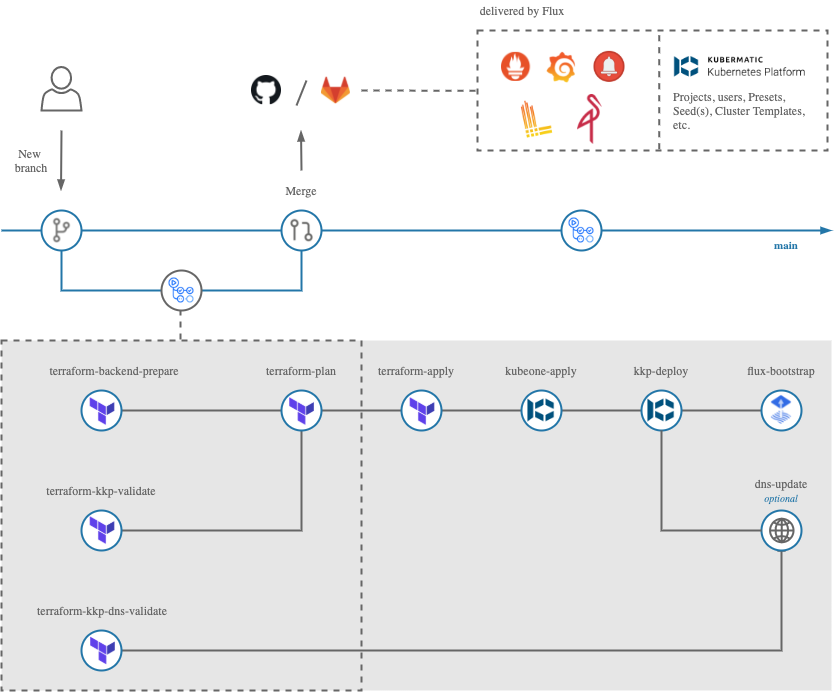
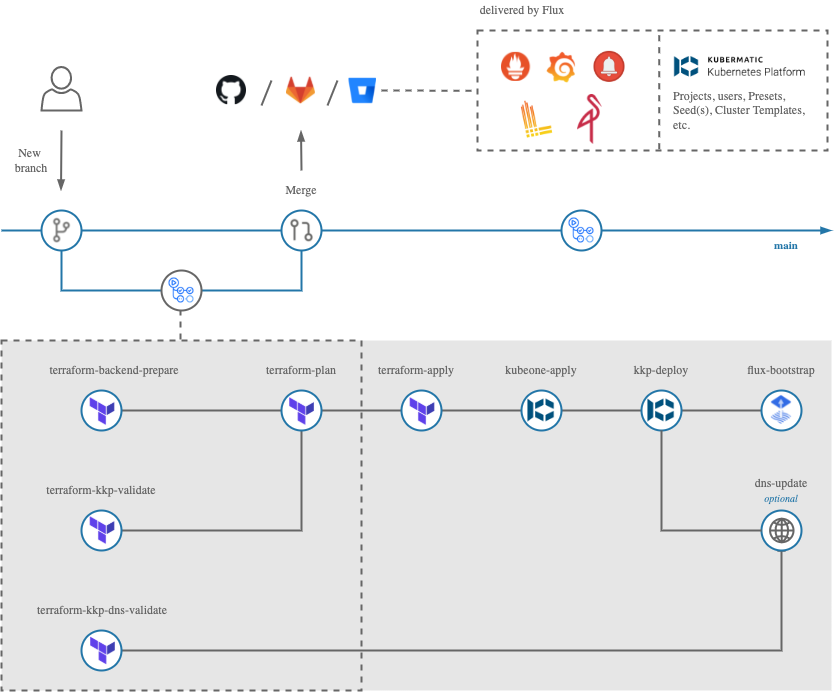
start.kubermatic bitbucket doc updates for v2.20

diff --git a/content/kubermatic/v2.20/installation/start_kkp/guides/setup_repository/_index.en.md b/content/kubermatic/v2.20/installation/start_kkp/guides/setup_repository/_index.en.md
@@ -26,6 +26,11 @@ Create new repository on GitLab [manually](https://docs.gitlab.com/ee/user/proje
 
 Also prepare a [GitLab API token](https://docs.gitlab.com/ee/user/profile/personal_access_tokens.html) which will be used for GitOps setup. [Project access token](https://docs.gitlab.com/ee/user/project/settings/project_access_tokens.html) can be used as well.
 {{% /tab %}}
+{{% tab name="Bitbucket" %}}
+Create new repository on Bitbucket [manually](https://support.atlassian.com/bitbucket-cloud/docs/create-a-git-repository/).
+
+The generated SSH Key on the next step will be added to your [SSH Keys](https://bitbucket.org/account/settings/ssh-keys/) for GitOps setup.
+{{% /tab %}}
 {{% /tabs %}}
 
 
@@ -58,6 +63,7 @@ Use `gcloud` CLI tool to create these credentials.
 ```bash
 export GCLOUD_PROJECT="{{ .Configuration.KubernetesSpec.CloudProvider.GCE.Project }}"
 export SERVICE_ACCOUNT_NAME="k1-cluster-provisioner"
+gcloud config set project $GCLOUD_PROJECT
 # create new service account
 gcloud iam service-accounts create "${SERVICE_ACCOUNT_NAME}"
 # get your service account id
@@ -130,6 +136,17 @@ Go to your GitLab project under "Settings" -> "CI/CD" -> "Variables" and setup f
 | `SSH_PRIVATE_KEY`       | The private SSH key (content of `~/.ssh/k8s_rsa`) from above step    |
 | `SSH_PUBLIC_KEY`        | The public SSH key (content of `~/.ssh/k8s_rsa.pub`) from above step |
 {{% /tab %}}
+{{% tab name="Bitbucket" %}}
+Go to your Bitbucket project under "Repository Settings" -> "PIPELINES" -> "Settings" and click on "Enable Pipelines".
+
+Then navigate to "Repository Settings" -> "PIPELINES" -> "Repository Variables" and setup following variables (Make sure that "Secured" is always set):
+
+| Secret Name             | Description                                                                       |
+| ------------------------|-----------------------------------------------------------------------------------|
+| `SOPS_AGE_SECRET_KEY`   | The generated AGE secret key (see _secrets.md_ file)                              |
+| `SSH_PRIVATE_KEY`       | Base64 encoded value of private SSH key (`base64 -w0 k8s_rsa`) from above step    |
+| `SSH_PUBLIC_KEY`        | Base64 encoded value of public SSH key (`base64 -w0 k8s_rsa.pub`) from above step |
+{{% /tab %}}
 {{% /tabs %}}
 
 In addition to above, configure following secrets for selected cloud provider.
@@ -150,9 +167,15 @@ In addition to above, configure following secrets for selected cloud provider.
 | `ARM_CLIENT_SECRET`     | The Azure Client Secret for client authentication                    |
 {{% /tab %}}
 {{% tab name="GCP" %}}
+For **GitHub** and **GitLab**:
 | Secret Name             | Description                                                                                |
 | ------------------------| -------------------------------------------------------------------------------------------|
 | `GOOGLE_CREDENTIALS`    | The service account key (content of `${SERVICE_ACCOUNT_NAME}-sa-key.json`) from above step |
+
+For **Bitbucket**:
+| Secret Name             | Description                                                                                |
+| ------------------------| -------------------------------------------------------------------------------------------|
+| `GCLOUD_SERVICE_KEY`    | The Base64 encoded service account key (`base64 -w0 ${SERVICE_ACCOUNT_NAME}-sa-key.json`). |
 {{% /tab %}}
 {{% tab name="OpenStack" %}}
 | Secret Name             | Description                                                          |
@@ -189,7 +212,7 @@ git push -u origin main
 
 ## Enjoy automated pipeline delivery
 
-At this point, GitHub Workflow or GitLab's CI/CD pipeline should be triggered, and you can watch it on your repository.
+At this point, GitHub Workflow, GitLab's CI/CD pipeline or Bitbucket Pipeline should be triggered, and you can watch it on your repository.
 After all steps are complete, it may still take a few minutes to reconcile the required state (as the Flux is delivering additional steps independently).
 
 ![GitHub Workflow](pipeline.png?width=700px&classes=shadow,border "GitHub Workflow")

diff --git a/content/kubermatic/v2.20/installation/start_kkp/concepts/pipeline_definition/_index.en.md b/content/kubermatic/v2.20/installation/start_kkp/concepts/pipeline_definition/_index.en.md
@@ -2,7 +2,7 @@
 title = "Delivery Pipeline description"
 +++
 
-Automated pipeline was created in GitHub or GitLab to automate all installation steps to have KKP up and running and
+Automated pipeline was created in GitHub, GitLab or Bitbucket to automate all installation steps to have KKP up and running and
 ready to operate with GitOps (using Flux tool).
 
 ![Pipeline Schema](pipeline.png?width=700px&classes=shadow,border "Pipeline Schema")
@@ -11,7 +11,7 @@ Jobs are being triggered on 2 specific events - either on your _Pull (Merge) Req
 
 On pull requests, only the jobs for terraform validate and plan are executed (so that you have visibility what is going to change).
 
-All other jobs are being executed on the _main_ branch after push (in case that any files in directories _kubeone_, _kubermatic_, _terraform_ or _.github_ (_.gitlab-ci.yaml_) have changed).
+All other jobs are being executed on the _main_ branch after push (in case that any files in directories _kubeone_, _kubermatic_, _terraform_ or _.github_ (_.gitlab-ci.yml_ / _bitbucket-pipelines.yml_) have changed).
 
 ## Jobs
 
@@ -22,7 +22,7 @@ Runs validation of Terraform module(s).
 Prepares Terraform backend for storing Terraform state.
 
 {{% notice info %}}
-This is performed only with GitHub and AWS / Azure / GCP. If you are using GitLab, terraform state is stored in GitLab directly.
+This is performed only with [ GitHub / Bitbucket ] and [ AWS / GCP ]. If you are using GitLab, terraform state is stored in GitLab directly.
 {{% /notice %}}
 
 ### terraform-plan
@@ -61,7 +61,7 @@ Optional step for AWS only.
 Runs only after the push in `main` branch.
 
 ### flux-bootstrap
-Initiates Flux v2 using `flux bootstrap github` (or `flux bootstrap gitlab`) command.
+Initiates Flux v2 using `flux bootstrap github` (or `flux bootstrap gitlab` / `flux bootstrap git`) command.
 
 ==> KKP resources (Seed, Preset, Project) and optionally components of Monitoring/Logging/Alerting stack are delivered after Flux is initiated on the cluster,
 Flux itself is also managed by the same repository.

diff --git a/content/kubermatic/v2.20/installation/start_kkp/guides/explore_content/_index.en.md b/content/kubermatic/v2.20/installation/start_kkp/guides/explore_content/_index.en.md
@@ -11,12 +11,14 @@ Let’s unzip it and take a look at the structure.
 ```text
 .
 ├── .gitignore
-├── .github                  # if GitHub was used as Git provider
+├── .github                     # if GitHub was used as Git provider
 │   └── workflows
 │       └── kkp.yaml
-├── .gitlab-ci.yml           # if GitLab was used as Git provider
-├── README-local-github.md   # if GitHub was used as Git provider
-├── README-local-gitlab.md   # if GitLab was used as Git provider
+├── .gitlab-ci.yml              # if GitLab was used as Git provider
+├── bitbucket-pipelines.yml     # if Bitbucket was used as Git provider
+├── README-local-github.md      # if GitHub was used as Git provider
+├── README-local-gitlab.md      # if GitLab was used as Git provider
+├── README-local-bitbucket.md   # if Bitbucket was used as Git provider
 ├── README.md
 ├── flux
 │   └── clusters
@@ -76,6 +78,7 @@ There are following directories and files:
 
 * _.github/workflows_ - includes CI/CD jobs for automatic provisioning of cluster and KKP installation (if GitHub was selected as the Git provider).
 * _.gitlab-ci.yml_ - includes CI/CD jobs for automatic provisioning of cluster and KKP installation (if GitLab was selected as the Git provider).
+* _bitbucket-pipelines.yml_ - includes CI/CD jobs for automatic provisioning of cluster and KKP installation (if Bitbucket was selected as the Git provider).
 * _flux_ - includes Kubernetes resources organized by namespaces which are delivered to your Kubernetes cluster by the Flux GitOps tool.
   There are 2 subdirectories _master_ and _master-sops_. First one includes plain Kubernetes resources and second one
   the Kubernetes resources with some encrypted values (they are treated in special way using decryption provider with Flux).

diff --git a/content/kubermatic/v2.20/installation/start_kkp/concepts/_index.en.md b/content/kubermatic/v2.20/installation/start_kkp/concepts/_index.en.md
@@ -24,7 +24,7 @@ Currently, following providers are supported to try KKP:
 
 Required configuration in wizard is different for each of these providers.
 
-### GitHub or GitLab repository
+### GitHub, GitLab or Bitbucket repository
 It will be used for storing the declarative setup of all components,
 can be either public or private, managed by user or organization.
 
@@ -39,6 +39,7 @@ If you have Route53 and willing to try KKP on AWS - records preparation can be f
 
 * **[GitHub Actions / Workflow](https://github.com/features/actions)** - for management of complete delivery pipeline on top of your GitHub repository
 * **[GitLab CI/CD](https://docs.gitlab.com/ee/ci/)** - for management of complete delivery pipeline on top of your GitLab repository
+* **[Bitbucket Pipelines](https://support.atlassian.com/bitbucket-cloud/docs/get-started-with-bitbucket-pipelines/)** - for management of complete delivery pipeline on top of your Bitbucket Cloud repository
 * **[Terraform](https://www.terraform.io/)** - for provisioning of cloud resources for Kubernetes master / seed cluster (the cluster that will run Kubermatic Kubernetes Platform components)
 * **[KubeOne](https://www.kubermatic.com/products/kubeone/)** - for provisioning of Kubernetes master / seed cluster
 * **[KKP installer](https://www.kubermatic.com/products/kubermatic/)** - for installing Kubermatic Kubernetes Platform on master cluster

diff --git a/content/kubermatic/v2.20/installation/start_kkp/cheat_sheets/access_to_cluster/_index.en.md b/content/kubermatic/v2.20/installation/start_kkp/cheat_sheets/access_to_cluster/_index.en.md
@@ -50,6 +50,16 @@ terraform output -json > output.json
 cd ../..
 ```
 {{% /tab %}}
+{{% tab name="Bitbucket" %}}
+Terraform state is stored at remote s3 compatible location (S3 / GCS), and all required configuration is provided via `backend.tf`.
+
+```bash
+cd terraform/<provider>
+terraform init
+terraform output -json > output.json
+cd ../..
+```
+{{% /tab %}}
 {{% /tabs %}}
 
 ## 2. Prepare SSH Agent with SSH Key

diff --git a/content/kubermatic/v2.20/installation/start_kkp/cheat_sheets/troubleshoot_pipeline/_index.en.md b/content/kubermatic/v2.20/installation/start_kkp/cheat_sheets/troubleshoot_pipeline/_index.en.md
@@ -25,4 +25,4 @@ flux bootstrap github --owner=<org-name> --repository=<repo-name> --branch=main 
 ```
 
 In general in case of any failure, we recommend trying the steps locally (following the instructions in
-`README-local-(github|gitlab).md`) and find the right cause of the problem.
+`README-local-(github|gitlab|bitbucket).md`) and find the right cause of the problem.

diff --git a/content/kubermatic/v2.20/installation/start_kkp/guides/wizard/_index.en.md b/content/kubermatic/v2.20/installation/start_kkp/guides/wizard/_index.en.md
@@ -15,7 +15,7 @@ Start by clicking on the **Generate** button.
 ## 1. Git provider selection
 At this step, you will select a Git provider where the repository will be hosted.
 
-You can pick between GitHub and GitLab.
+You can pick between GitHub, GitLab and Bitbucket.
 
 ![Step 1](1.png?width=700px&classes=shadow,border "Step 1")
 
